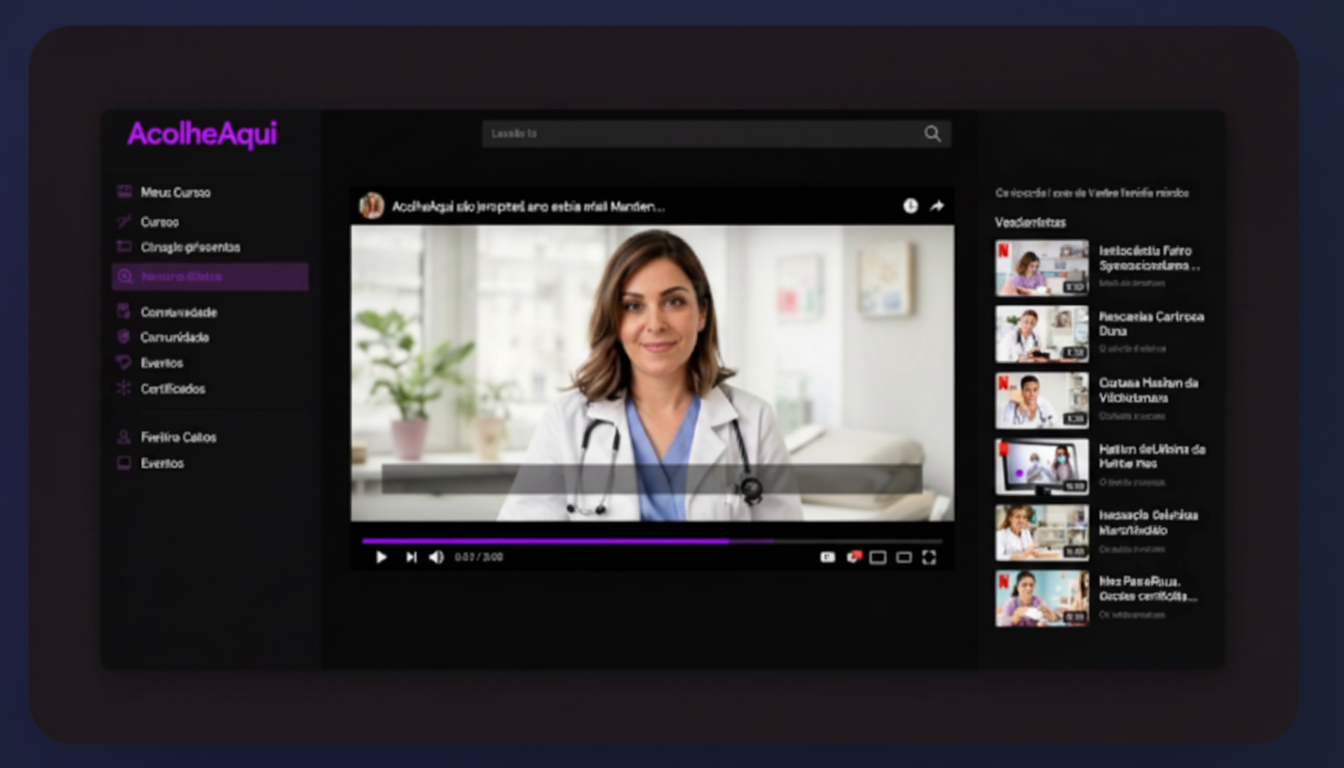
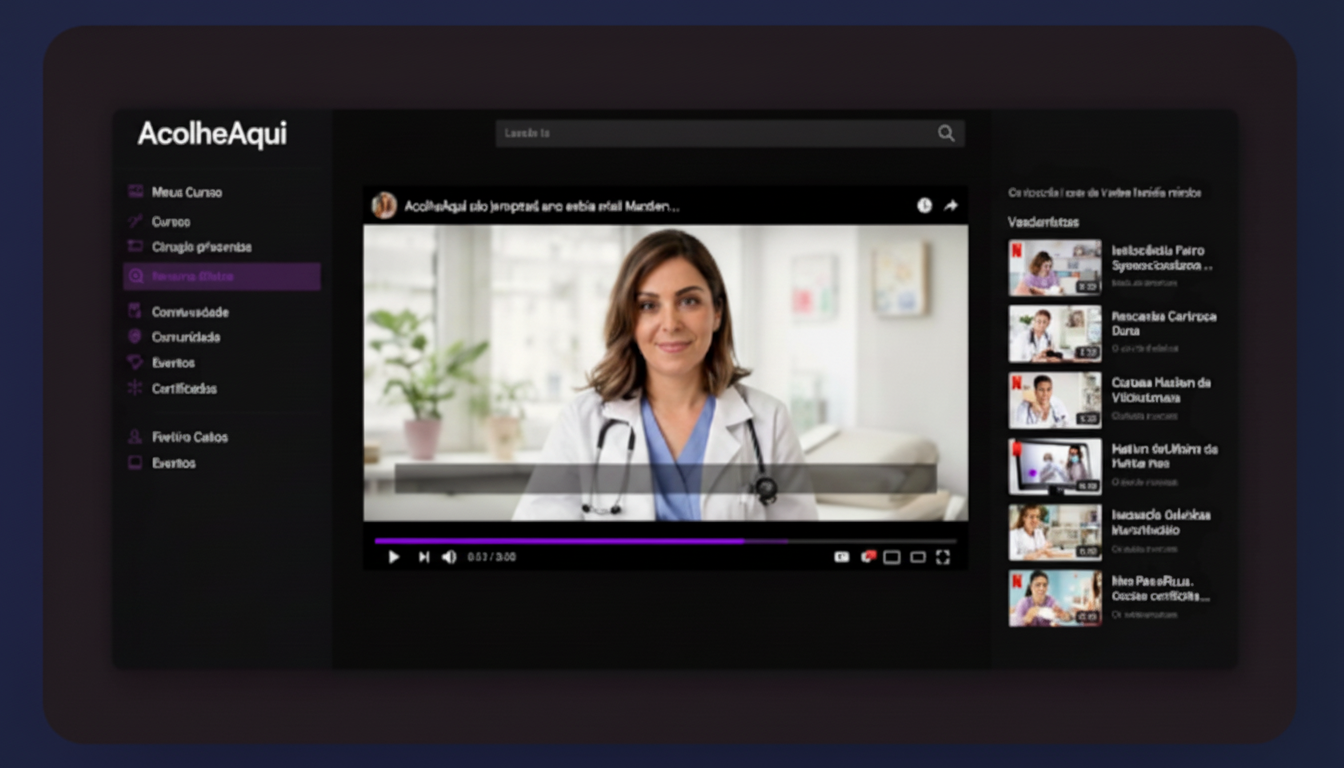
Changes

diff --git a/src/components/pro/FeaturesShowcaseSection.tsx b/src/components/pro/FeaturesShowcaseSection.tsx
@@ -1,6 +1,6 @@
 import { ChevronRight, Star, Users, Video } from "lucide-react";
 import { Button } from "@/components/ui/button";
-import membersAreaMockup from "@/assets/members-area-mockup-acolheaqui-v2.jpg";
+import membersAreaMockup from "@/assets/members-area-mockup-acolheaqui-v3.png";
 
 const FeaturesShowcaseSection = () => {
   const handleScrollToPricing = () => {
@@ -60,12 +60,14 @@ const FeaturesShowcaseSection = () => {
 
           {/* Right Image - Full width mockup */}
           <div className="flex-[1.5]">
-            <img
-              src={membersAreaMockup}
-              alt="Área de Membros AcolheAqui"
-              loading="lazy"
-              className="w-full max-w-none"
-            />
+            <div className="overflow-hidden">
+              <img
+                src={membersAreaMockup}
+                alt="Área de Membros AcolheAqui"
+                loading="lazy"
+                className="block w-full max-w-none transform-gpu scale-[1.04]"
+              />
+            </div>
           </div>
         </div>
       </div>
